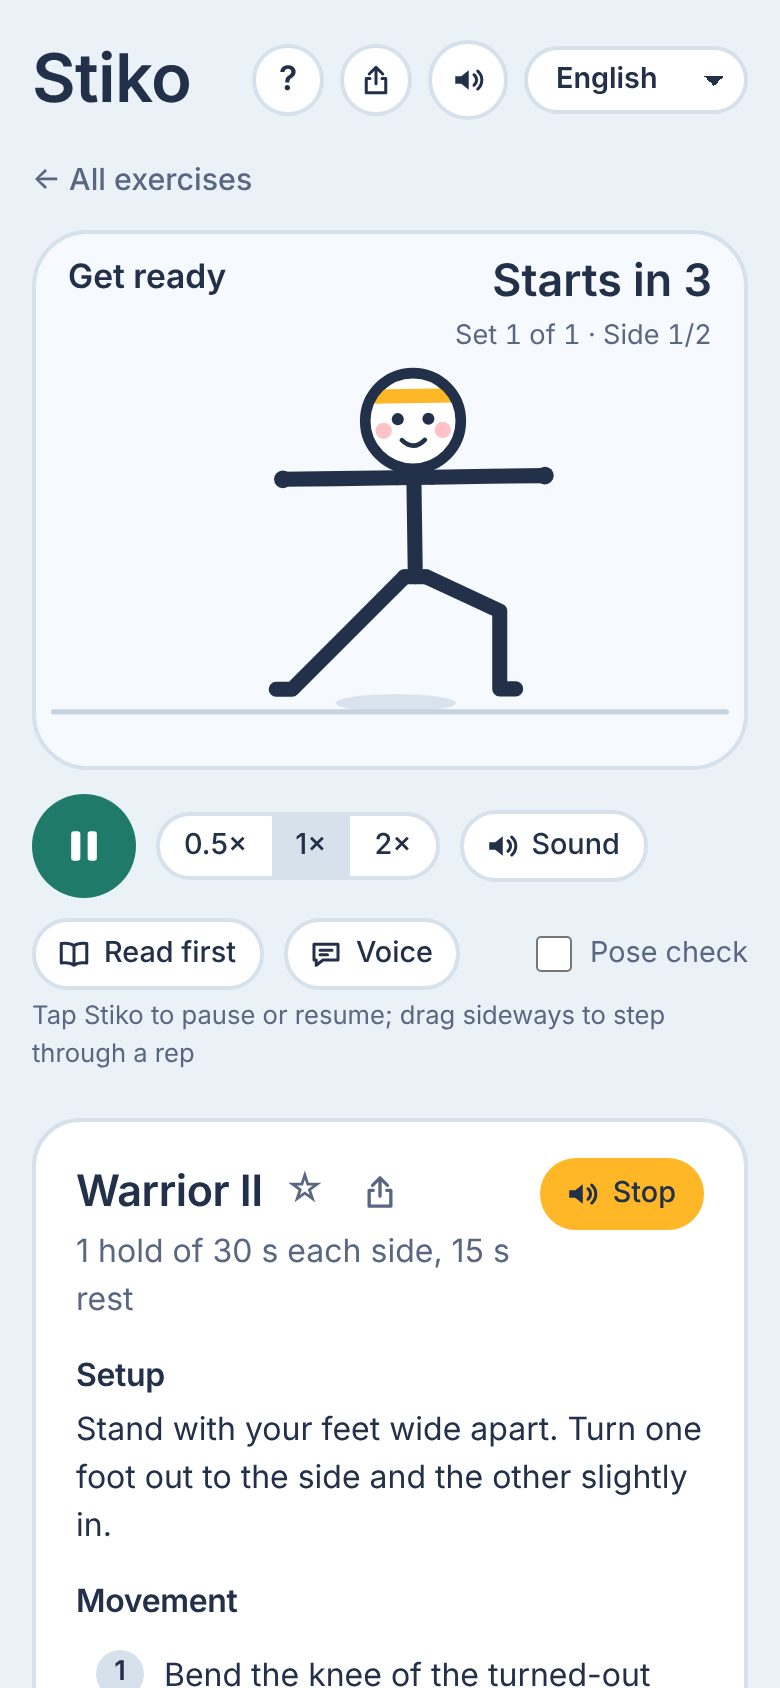
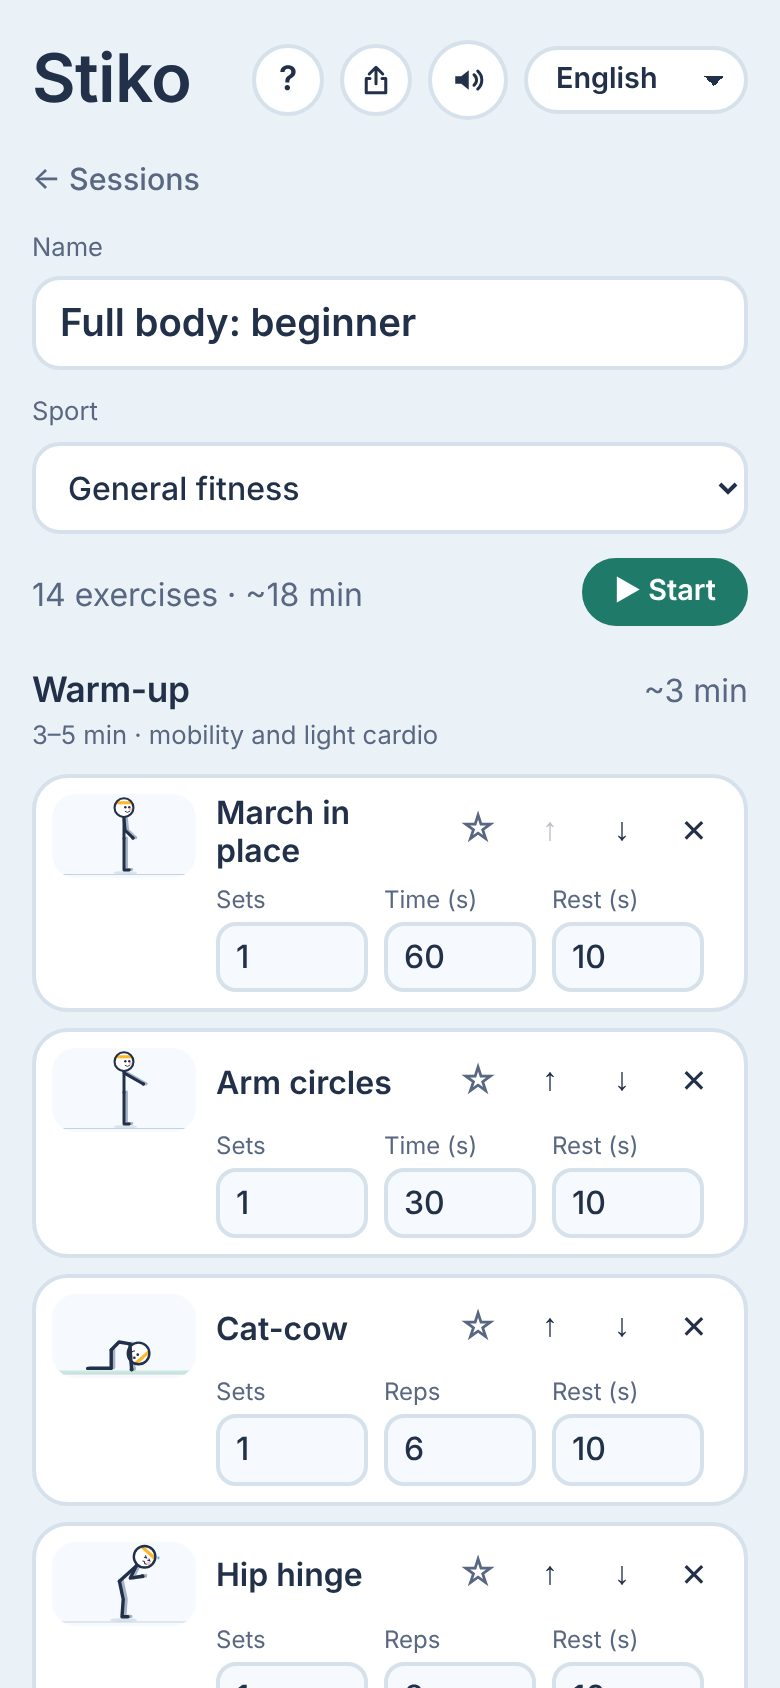
Screenshots: Stiko session screen, Panorama Splitter carousel on slide 2
Claude-Session: https://claude.ai/code/session_01S85J16qWag3ZBrDP9TZQhT

diff --git a/index.html b/index.html
@@ -82,7 +82,7 @@ footer{margin-top:32px;color:var(--muted);font-size:.9rem}
       <a href="https://github.com/hodzic/stiko">Source</a>
     </div>
     </div>
-    <a class="shot" href="shots/stiko.jpg"><img src="shots/stiko.jpg" width="390" height="844" alt="Stiko demonstrating Warrior II in the exercise player" loading="lazy"></a>
+    <a class="shot" href="shots/stiko.jpg"><img src="shots/stiko.jpg" width="390" height="844" alt="The Full body: beginner session: its warm-up exercises, each with Stiko’s pose and its sets, time or reps, and rest" loading="lazy"></a>
   </section>
 
   <section class="app" id="outback">
@@ -148,7 +148,7 @@ footer{margin-top:32px;color:var(--muted);font-size:.9rem}
       <a href="https://github.com/hodzic/photo-splitter">Source</a>
     </div>
     </div>
-    <a class="shot" href="shots/photo-splitter.jpg"><img src="shots/photo-splitter.jpg" width="390" height="844" alt="A San Francisco skyline panorama with the Bay Bridge, cut into five portrait 4:5 slides, with the controls" loading="lazy"></a>
+    <a class="shot" href="shots/photo-splitter.jpg"><img src="shots/photo-splitter.jpg" width="390" height="844" alt="Controls for a San Francisco skyline panorama cut into five portrait 4:5 slides, and the carousel preview on slide 2 of 5: the Bay Bridge" loading="lazy"></a>
   </section>
 
   <footer>Edin Hodzic · <a href="https://github.com/hodzic">GitHub</a></footer>
